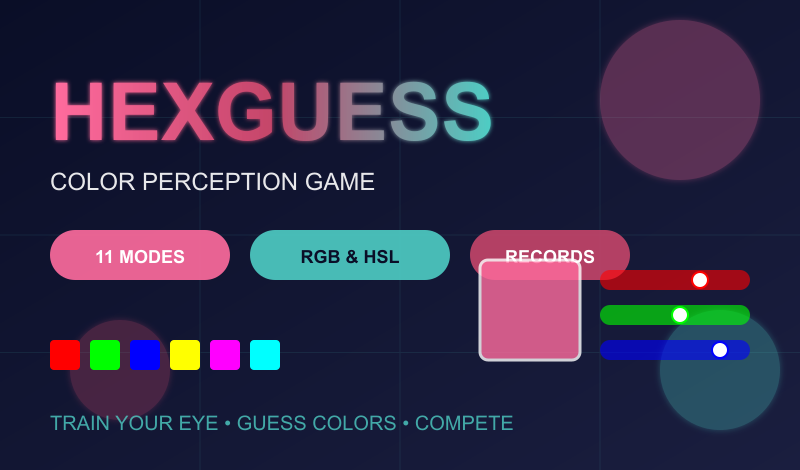
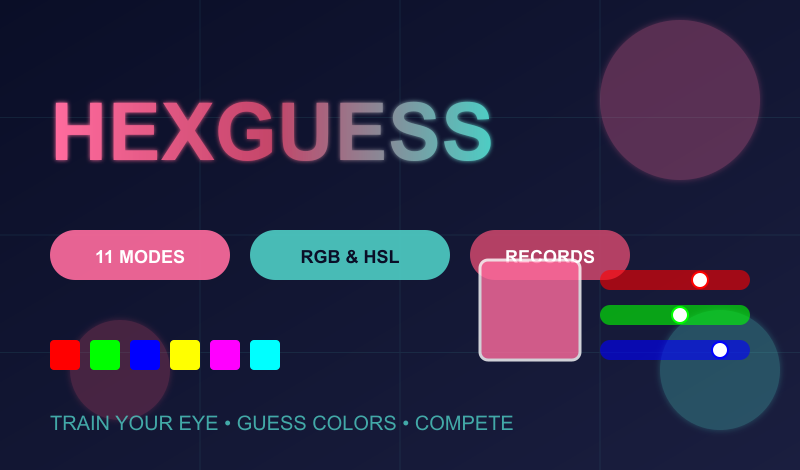
Финальная оптимизация для Яндекс.Игр
- Убраны все упоминания "игра на цветовосприятие"
- Везде только "HexGuess"
- Добавлен перевод "Допуск" → "Tolerance"
- Заменено "localStorage" → "локальное хранилище" в политике
- Уменьшены все отступы для мобильных устройств
- Режимы Blind/Lynx/Marathon теперь компактные
- Палитра HSL уменьшена для всех брейкпоинтов
- Переключатель языка перенесен в главное меню
- Все переводы интерфейса добавлены (RGB/PALETTE/HUE)
- Обложки перегенерированы без подзаголовков

Changed region(s): [[0.0625, 0.1489, 0.625, 0.417]]

diff --git a/index.html b/index.html
@@ -5,10 +5,10 @@
     <meta name="viewport" content="width=device-width, initial-scale=1.0, maximum-scale=1.0, user-scalable=no, viewport-fit=cover">
 
     <!-- Primary Meta Tags -->
-    <title>HexGuess - Игра на Цветовосприятие | Угадай Цвет по HEX-коду</title>
-    <meta name="title" content="HexGuess - Игра на Цветовосприятие | Угадай Цвет по HEX-коду">
-    <meta name="description" content="Браузерная игра для тренировки цветовосприятия. 11 режимов игры: от легкого до марафона. Угадывай цвета, соревнуйся с друзьями в дейли челлендже!">
-    <meta name="keywords" content="угадай цвет, hex colors, цветовая игра, rgb игра, тренировка цветовосприятия, браузерная игра, онлайн игра цвета, дизайн игра">
+    <title>HexGuess | Угадай Цвет по HEX-коду</title>
+    <meta name="title" content="HexGuess | Угадай Цвет по HEX-коду">
+    <meta name="description" content="Браузерная игра на угадывание цветов. 11 режимов игры: от легкого до марафона. Угадывай цвета, соревнуйся с друзьями в дейли челлендже!">
+    <meta name="keywords" content="угадай цвет, hex colors, цветовая игра, rgb игра, браузерная игра, онлайн игра цвета, дизайн игра">
     <meta name="author" content="HexGuess">
     <meta name="robots" content="index, follow">
     <meta name="language" content="Russian">
@@ -17,8 +17,8 @@
     <!-- Open Graph / Facebook -->
     <meta property="og:type" content="website">
     <meta property="og:url" content="https://hexguess.ru/">
-    <meta property="og:title" content="HexGuess - Игра на Цветовосприятие">
-    <meta property="og:description" content="Браузерная игра для тренировки цветовосприятия. 11 режимов игры: от легкого до марафона. Угадывай цвета, соревнуйся с друзьями!">
+    <meta property="og:title" content="HexGuess">
+    <meta property="og:description" content="Браузерная игра на угадывание цветов. 11 режимов игры: от легкого до марафона. Угадывай цвета, соревнуйся с друзьями!">
     <meta property="og:image" content="https://hexguess.ru/og-image.png">
     <meta property="og:locale" content="ru_RU">
     <meta property="og:site_name" content="HexGuess">
@@ -26,8 +26,8 @@
     <!-- Twitter -->
     <meta property="twitter:card" content="summary_large_image">
     <meta property="twitter:url" content="https://hexguess.ru/">
-    <meta property="twitter:title" content="HexGuess - Игра на Цветовосприятие">
-    <meta property="twitter:description" content="Браузерная игра для тренировки цветовосприятия. 11 режимов игры: от легкого до марафона.">
+    <meta property="twitter:title" content="HexGuess">
+    <meta property="twitter:description" content="Браузерная игра на угадывание цветов. 11 режимов игры: от легкого до марафона.">
     <meta property="twitter:image" content="https://hexguess.ru/twitter-image.png">
 
     <!-- Yandex -->
@@ -57,9 +57,8 @@
       "@context": "https://schema.org",
       "@type": "WebApplication",
       "name": "HexGuess",
-      "alternateName": "Игра на Цветовосприятие",
       "url": "https://hexguess.app",
-      "description": "Браузерная игра для тренировки цветовосприятия с 11 режимами игры",
+      "description": "Браузерная игра на угадывание цветов с 11 режимами игры",
       "applicationCategory": "Game",
       "operatingSystem": "Any",
       "offers": {

diff --git a/src/components/HexGuessGame.vue b/src/components/HexGuessGame.vue
@@ -3,7 +3,6 @@
     <!-- Main Menu -->
     <div class="main-menu pixel-border" v-if="gameState === 'menu' && menuScreen === 'main'">
       <h1 class="game-title glitch-text">HEX<span class="accent">GUESS</span></h1>
-      <p class="menu-subtitle">{{ t('subtitle', currentLanguage) }}</p>
 
       <!-- Language switcher in menu -->
       <div class="language-switcher-menu">
@@ -260,7 +259,7 @@
               {{ t('attemptsLeft', currentLanguage) }}: <span class="lynx-attempts">{{ lynxAttemptsLeft }}/3</span>
             </div>
             <div class="streak-info" v-if="gameMode === 'streak' && gameState === 'playing'">
-              Допуск: <span class="streak-tolerance">≥{{ streakTolerance }}%</span>
+              {{ t('tolerance', currentLanguage) }}: <span class="streak-tolerance">≥{{ streakTolerance }}%</span>
             </div>
           </div>
 
@@ -1408,16 +1407,16 @@ onUnmounted(() => {
 }
 
 .section-label {
-  font-size: 12px;
+  font-size: 11px;
   color: var(--text-secondary);
   text-align: center;
-  letter-spacing: 2px;
+  letter-spacing: 1.5px;
   margin: 0;
 }
 
 .color-preview {
   width: 100%;
-  height: 180px;
+  height: 160px;
   transition: all 0.3s ease;
 }
 
@@ -2374,35 +2373,35 @@ onUnmounted(() => {
   }
 
   .section-label {
-    font-size: 10px;
-    margin: 6px 0;
+    font-size: 9px;
+    margin: 3px 0;
   }
 
   .color-preview {
-    height: 110px;
+    height: 100px;
   }
 
   .gradient-color,
   .complementary-ref,
   .complementary-target {
-    height: 110px;
+    height: 100px;
   }
 
   .illusion-preview {
-    height: 110px;
+    height: 100px;
   }
 
   .game-layout {
-    padding: 12px;
-    gap: 10px;
-  }
-
-  .sliders {
+    padding: 8px;
     gap: 8px;
   }
 
+  .sliders {
+    gap: 6px;
+  }
+
   .slider-group {
-    gap: 4px;
+    gap: 3px;
   }
 
   .slider-label {
@@ -2414,17 +2413,17 @@ onUnmounted(() => {
   }
 
   .picker-tabs {
-    gap: 6px;
-    margin-top: 6px;
+    gap: 5px;
+    margin-top: 4px;
   }
 
   .picker-tab {
-    padding: 7px 10px;
-    font-size: 10px;
+    padding: 6px 8px;
+    font-size: 9px;
   }
 
   .picker-container {
-    margin-top: 6px;
+    margin-top: 4px;
   }
 
   .blind-hint,
@@ -2456,14 +2455,14 @@ onUnmounted(() => {
   }
 
   .action-btn {
-    margin-top: 8px;
-    padding: 9px;
+    margin-top: 5px;
+    padding: 8px;
     font-size: 10px;
   }
 
   .result-info {
-    padding: 10px;
-    margin-top: 6px;
+    padding: 8px;
+    margin-top: 4px;
   }
 }
 

diff --git a/src/i18n.js b/src/i18n.js
@@ -3,7 +3,6 @@ export const translations = {
   ru: {
     // Main menu
     title: 'HEXGUESS',
-    subtitle: 'ИГРА НА ЦВЕТОВОСПРИЯТИЕ',
     startGame: 'НАЧАТЬ ИГРУ',
     rules: 'ПРАВИЛА',
     privacy: 'ПОЛИТИКА ДАННЫХ',
@@ -55,6 +54,7 @@ export const translations = {
     findMiddleColor: 'НАЙДИ СРЕДНИЙ ЦВЕТ',
     findOpposite: 'НАЙДИ ПРОТИВОПОЛОЖНОСТЬ',
     hiddenChannel: 'Скрытый канал',
+    tolerance: 'Допуск',
 
     // Color picker
     redChannel: 'Красный',
@@ -157,13 +157,12 @@ export const translations = {
 
     // Privacy screen
     privacyTitle: 'ПОЛИТИКА ДАННЫХ',
-    privacyText: 'HexGuess не собирает персональные данные. Мы используем localStorage браузера для сохранения настроек и рекордов только на вашем устройстве. Никакая информация не передается на серверы.'
+    privacyText: 'HexGuess не собирает персональные данные. Мы используем локальное хранилище браузера для сохранения настроек и рекордов только на вашем устройстве. Никакая информация не передается на серверы.'
   },
 
   en: {
     // Main menu
     title: 'HEXGUESS',
-    subtitle: 'COLOR PERCEPTION GAME',
     startGame: 'START GAME',
     rules: 'RULES',
     privacy: 'PRIVACY POLICY',
@@ -215,6 +214,7 @@ export const translations = {
     findMiddleColor: 'FIND MIDDLE COLOR',
     findOpposite: 'FIND OPPOSITE',
     hiddenChannel: 'Hidden channel',
+    tolerance: 'Tolerance',
 
     // Color picker
     redChannel: 'Red',
